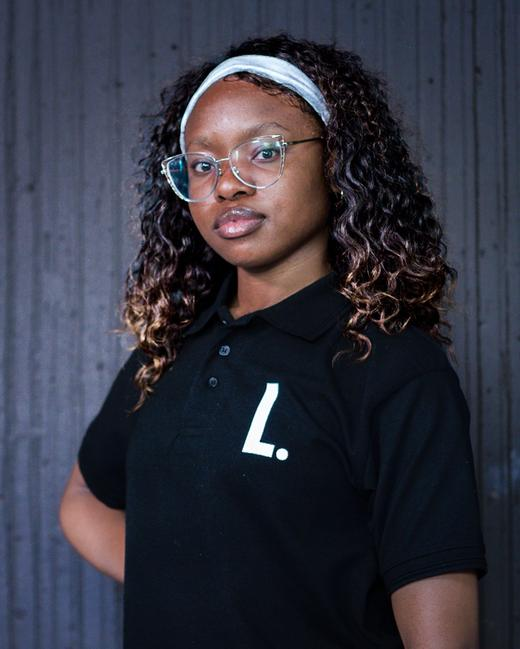
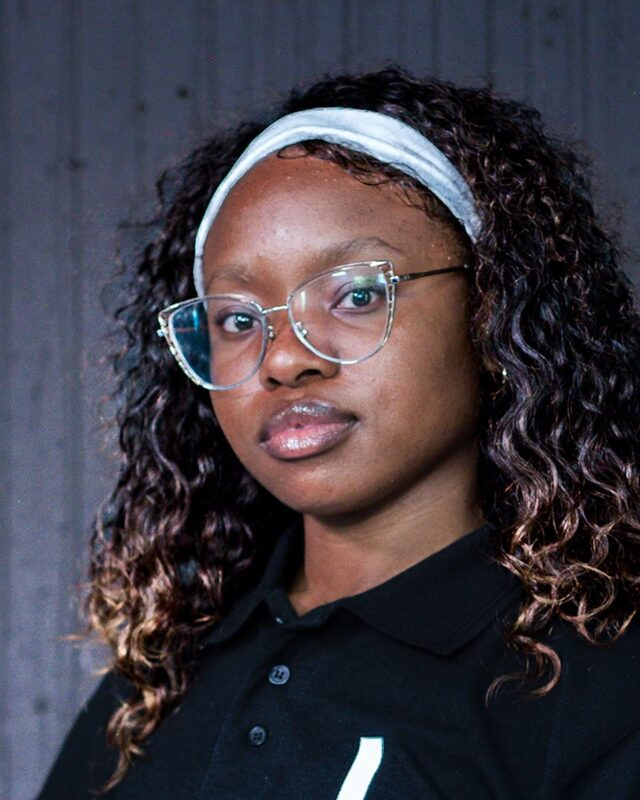
Team and hero updates: add Matimu Ndlovu, new hero photo
- Add Matimu Ndlovu, Operations Manager, after Diego
- Kagiso and Siyabonga quotes updated
- Phakama's photo cropped to shoulders-up from the original
- Hero photo is now a learner in an online class; Diego's hero shot removed

Claude-Session: https://claude.ai/code/session_01E7ron1uGGMsGezCcpKSjta

diff --git a/index.html b/index.html
@@ -24,7 +24,7 @@
 <link rel="icon" type="image/png" sizes="32x32" href="favicon-32x32.png">
 <link rel="apple-touch-icon" href="apple-touch-icon.png">
 <link rel="manifest" href="site.webmanifest">
-<link rel="preload" as="image" href="images/diego-hero.jpg">
+<link rel="preload" as="image" href="images/hero-learner.jpg">
 
 <script type="application/ld+json">
 {
@@ -465,9 +465,9 @@ html{scroll-behavior:smooth;scroll-padding-top:88px}
       </dl>
     </div>
     <figure>
-      <img src="images/diego-hero.jpg" alt="Diego Zamisa, smiling, in a white Lumos shirt" width="900" height="1124" fetchpriority="high">
+      <img src="images/hero-learner.jpg" alt="A learner in a Lumos shirt working on a laptop and tablet during an online class" width="900" height="1125" fetchpriority="high">
       <div class="stamp" aria-hidden="true"><div><b>1 week</b><span>free trial,<br>every subject</span></div></div>
-      <figcaption><b>Diego Zamisa</b>, who leads Maths and Physics</figcaption>
+      <figcaption>Live classes on Microsoft Teams, from a phone or laptop</figcaption>
     </figure>
   </div>
 </section>
@@ -715,15 +715,22 @@ html{scroll-behavior:smooth;scroll-padding-top:88px}
         <q>If someone has a reasoning capacity and the ability to comprehend minor situations, they can excel in education.</q>
       </article>
       <article class="person">
+        <img src="images/team-matimu.jpg" alt="Matimu Ndlovu" loading="lazy" width="640" height="800">
+        <h3>Matimu Ndlovu</h3>
+        <p class="role">Operations Manager</p>
+        <q>All you can do is all you can do, and all you can do is enough. But make sure all you do is all you do, so that there aren’t any regrets.</q>
+      </article>
+      <article class="person">
         <img src="images/team-kagiso.jpg" alt="Kagiso Mashaba" loading="lazy" width="640" height="800">
         <h3>Kagiso Mashaba</h3>
         <p class="role">Lead, Business Studies</p>
+        <q>Questions are the capital of a curious mind, and every answer is the return on that investment.</q>
       </article>
       <article class="person">
         <img src="images/team-siyabonga.jpg" alt="Siyabonga Zwane" loading="lazy" width="520" height="649">
         <h3>Siyabonga Zwane</h3>
         <p class="role">Lead, Geography. Also teaches Life Sciences</p>
-        <q>Understanding the world starts with understanding yourself as a learner.</q>
+        <q>Perfect practice prevents poor performance.</q>
       </article>
       <article class="person">
         <img src="images/team-lerato.jpg" alt="Lerato Lethoba" loading="lazy" width="640" height="800">
@@ -750,7 +757,7 @@ html{scroll-behavior:smooth;scroll-padding-top:88px}
         <q>Failing to prepare is preparing to fail.</q>
       </article>
       <article class="person">
-        <img src="images/team-phakama.jpg" alt="Phakama Mdakane" loading="lazy" width="520" height="649">
+        <img src="images/team-phakama.jpg" alt="Phakama Mdakane" loading="lazy" width="640" height="800">
         <h3>Phakama Mdakane</h3>
         <p class="role">Lead, Finance and Administration</p>
         <q>Be picky. What you want exists.</q>
